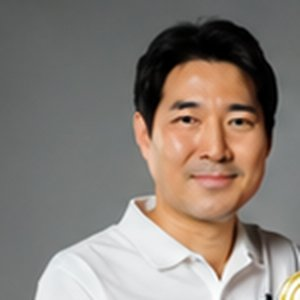
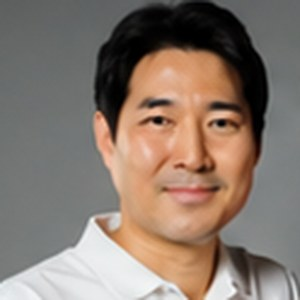
fix(team): 최영석·유영택 원형 사진을 얼굴 중심으로 다시 크롭, 팀 이미지 캐시버스팅

diff --git a/site/main.js b/site/main.js
@@ -446,17 +446,17 @@
     if (!tl || !list || !D.team) return;
     const jl = $('#judgeList');
     if (jl && D.team.judges) jl.innerHTML = D.team.judges.map((j) => `<li class="judge">
-      <picture class="judge__photo"><source srcset="assets/team/${j.img}.webp" type="image/webp"><img src="assets/team/${j.img}.jpg" alt="${esc(j.name.en)}" width="300" height="300" loading="lazy" decoding="async"></picture>
+      <picture class="judge__photo"><source srcset="assets/team/${j.img}.webp?v=2" type="image/webp"><img src="assets/team/${j.img}.jpg?v=2" alt="${esc(j.name.en)}" width="300" height="300" loading="lazy" decoding="async"></picture>
       <h4 class="judge__name">${esc(L(j.name))}</h4><p class="judge__role">${esc(L(j.role))}</p><p class="judge__note">${esc(L(j.note))}</p></li>`).join('');
     if (staff && D.team.staff) staff.innerHTML = D.team.staff.map((s) => `<article class="mentor" data-tag="${esc(s.tag || '')}">
-      <picture class="mentor__photo"><source srcset="assets/team/${s.img}.webp" type="image/webp"><img src="assets/team/${s.img}.jpg" alt="${esc(s.name.en)}" width="300" height="300" loading="lazy" decoding="async"></picture>
+      <picture class="mentor__photo"><source srcset="assets/team/${s.img}.webp?v=2" type="image/webp"><img src="assets/team/${s.img}.jpg?v=2" alt="${esc(s.name.en)}" width="300" height="300" loading="lazy" decoding="async"></picture>
       <div class="mentor__body"><p class="mentor__role">${esc(L(s.role))}</p><h4 class="mentor__name">${esc(L(s.name))}</h4>
         <ul class="mentor__items">${s.items.map((r) => `<li>${esc(r[lang] ?? r.en)}</li>`).join('')}</ul></div></article>`).join('');
     tl.innerHTML = D.team.coach.timeline.map((r) => `<li class="timeline__item${r.now ? ' is-now' : ''}">
       <span class="timeline__year">${esc(r.y)}${r.now ? `<small>${esc(t('team.now'))}</small>` : ''}</span>
       <span class="timeline__text">${esc(r[lang] ?? r.en)}</span></li>`).join('');
     list.innerHTML = D.team.athletes.map((a) => `<li class="athlete${a.gold ? ' athlete--gold' : ''}">
-      <picture class="athlete__photo"><source srcset="assets/team/${a.img}.webp" type="image/webp"><img src="assets/team/${a.img}.jpg" alt="${esc(a.name.en)}" width="300" height="300" loading="lazy" decoding="async"></picture>
+      <picture class="athlete__photo"><source srcset="assets/team/${a.img}.webp?v=2" type="image/webp"><img src="assets/team/${a.img}.jpg?v=2" alt="${esc(a.name.en)}" width="300" height="300" loading="lazy" decoding="async"></picture>
       <div class="athlete__body"><h4 class="athlete__name">${esc(a.name[lang] ?? a.name.en)}</h4>
         <ul class="athlete__items">${(a.items[lang] ?? a.items.en).map((x) => `<li>${esc(x)}</li>`).join('')}</ul></div></li>`).join('');
     if (list.dataset.revealed) $$('.athlete', list).forEach((el) => el.classList.add('is-revealed'));

diff --git a/site/index.html b/site/index.html
@@ -34,7 +34,7 @@
   <link rel="preconnect" href="https://fonts.gstatic.com" crossorigin>
   <link href="https://fonts.googleapis.com/css2?family=Bebas+Neue&family=Kanit:wght@600;700&family=Noto+Sans+Thai:wght@400;500;600&family=Source+Sans+3:wght@400;500;600;700&family=Noto+Sans+KR:wght@400;500;700&family=Black+Han+Sans&display=swap" rel="stylesheet">
   <link rel="stylesheet" href="https://cdnjs.cloudflare.com/ajax/libs/leaflet/1.9.4/leaflet.min.css" referrerpolicy="no-referrer">
-  <link rel="stylesheet" href="styles.css?v=18">
+  <link rel="stylesheet" href="styles.css?v=19">
 
   <!-- 구조화 데이터: 조직 + 지점 3곳 + FAQ -->
   <script type="application/ld+json">
@@ -658,7 +658,7 @@
   <script src="https://cdnjs.cloudflare.com/ajax/libs/gsap/3.13.0/ScrollTrigger.min.js" defer></script>
   <script src="https://cdnjs.cloudflare.com/ajax/libs/leaflet/1.9.4/leaflet.min.js" referrerpolicy="no-referrer" defer></script>
   <script src="https://cdn.jsdelivr.net/npm/lenis@1.3.4/dist/lenis.min.js" defer></script>
-  <script src="data.js?v=18" defer></script>
-  <script src="main.js?v=18" defer></script>
+  <script src="data.js?v=19" defer></script>
+  <script src="main.js?v=19" defer></script>
 </body>
 </html>
